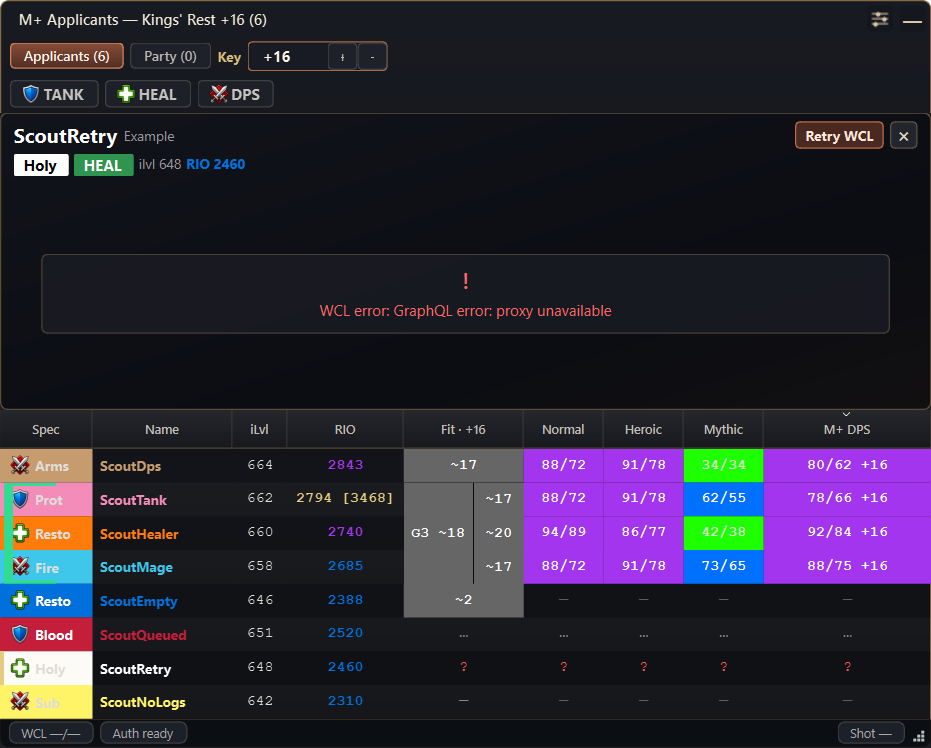
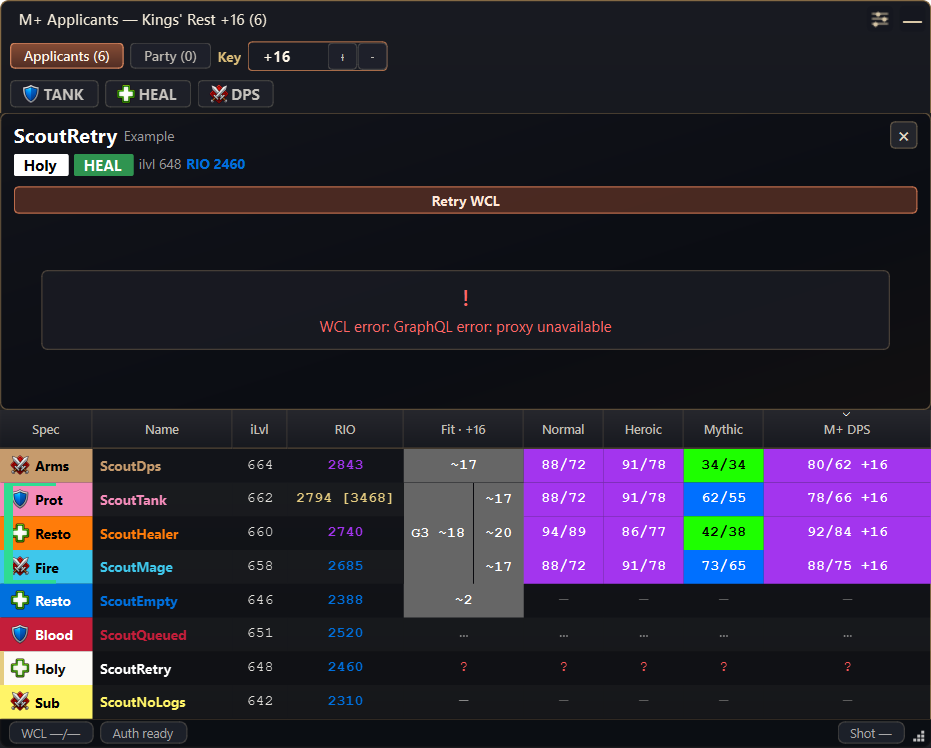
feat: boss-details action inline in status row

diff --git a/tests/test_info_panel_widget.py b/tests/test_info_panel_widget.py
@@ -576,6 +576,160 @@ def test_manual_raid_boss_detail_button_queues_fetch(qtbot, tmp_path):
         window.close()
 
 
+def _raid_idle_window(qtbot, tmp_path):
+    """Build a hovered raid window showing the idle boss-detail prompt."""
+    prefs = MetricPreferences(
+        mplus=True,
+        raid_normal=False,
+        raid_heroic=False,
+        raid_mythic=True,
+    )
+    client = WCLClient(WCLAuth("client", "secret", tmp_path), metric_preferences=prefs)
+    state = AppState()
+    state.player.full_name = "Host-Ravencrest"
+    state.listing = _raid_listing()
+    state.add_or_update(_app(name="Scout-Ravencrest", raid_boss_parses={}))
+    window = OverlayWindow(
+        state, client, CharacterCache(tmp_path), tmp_path, metric_preferences=prefs
+    )
+    qtbot.addWidget(window)
+    window._pool = None
+    window._refresh_table()
+    window._hover_id = "42"
+    window._sync_delegate_and_panel()
+    window._raid_boss_fetches_in_flight.clear()
+    window._panel._on_detail_mode_clicked("mplus")
+    window._panel._on_detail_mode_clicked("raid")
+    assert window._panel._status_label.text() == "Boss details not loaded"
+    return window
+
+
+def test_raid_idle_prompt_replaced_by_inline_load_button(qtbot, tmp_path):
+    window = _raid_idle_window(qtbot, tmp_path)
+    try:
+        panel = window._panel
+        button = panel._wcl_retry_button
+        assert button.text() == "Load boss details"
+        assert not button.isHidden()
+        assert button.parentWidget() is panel._status_row
+        assert not panel._status_row.isHidden()
+        assert panel._status_label.isHidden()
+
+        window._pool = _QueuedPool()
+        button.click()
+
+        assert window._raid_boss_fetches_in_flight
+        assert panel._status_label.text() == "Fetching raid boss details…"
+        assert not panel._status_label.isHidden()
+        assert button.isHidden()
+        assert not panel._status_row.isHidden()
+    finally:
+        window.close()
+
+
+def test_raid_loading_and_cooldown_states_render_as_text_in_status_row(
+    qtbot, tmp_path
+):
+    window = _raid_idle_window(qtbot, tmp_path)
+    try:
+        window._pool = _QueuedPool()
+        _request_visible_raid_boss_details(window)
+        panel = window._panel
+        assert panel._status_label.text() == "Fetching raid boss details…"
+        assert not panel._status_label.isHidden()
+        assert panel._wcl_retry_button.isHidden()
+        assert not panel._status_row.isHidden()
+
+        failed = next(iter(window._raid_boss_fetches_in_flight.values()))
+        window._on_raid_boss_fetch_done(
+            failed, {}, "network", overlay_mod.WCL_ERROR_NETWORK
+        )
+        assert panel._status_label.text() == "Raid boss details on cooldown…"
+        assert not panel._status_label.isHidden()
+        assert panel._wcl_retry_button.isHidden()
+        assert not panel._status_row.isHidden()
+    finally:
+        window.close()
+
+
+def test_raid_unavailable_error_keeps_text_with_inline_retry(qtbot, tmp_path):
+    window = _raid_idle_window(qtbot, tmp_path)
+    try:
+        window._pool = _QueuedPool()
+        _request_visible_raid_boss_details(window)
+        failed = next(iter(window._raid_boss_fetches_in_flight.values()))
+        window._on_raid_boss_fetch_done(
+            failed,
+            {},
+            "GraphQL error: Encounter not found",
+            overlay_mod.WCL_ERROR_GRAPHQL,
+        )
+        panel = window._panel
+        button = panel._wcl_retry_button
+        assert panel._status_label.text() == "Raid boss details unavailable"
+        assert not panel._status_label.isHidden()
+        assert button.text() == "Retry WCL"
+        assert not button.isHidden()
+        assert button.parentWidget() is panel._status_row
+        assert not panel._status_row.isHidden()
+
+        button.click()
+
+        assert window._raid_boss_fetches_in_flight
+        assert panel._status_label.text() == "Fetching raid boss details…"
+    finally:
+        window.close()
+
+
+def test_raid_auth_failure_hides_inline_action_but_keeps_text(qtbot, tmp_path):
+    window = _raid_idle_window(qtbot, tmp_path)
+    try:
+        window._pool = _QueuedPool()
+        _request_visible_raid_boss_details(window)
+        failed = next(iter(window._raid_boss_fetches_in_flight.values()))
+        window._on_raid_boss_fetch_done(
+            failed, {}, "Authentication failed", overlay_mod.WCL_ERROR_AUTH
+        )
+        panel = window._panel
+        assert panel._status_label.text() == "Raid boss details unavailable"
+        assert not panel._status_label.isHidden()
+        assert panel._wcl_retry_button.isHidden()
+        assert not panel._status_row.isHidden()
+    finally:
+        window.close()
+
+
+def test_inline_load_button_keeps_accessibility_and_header_balance(
+    qtbot, tmp_path
+):
+    window = _raid_idle_window(qtbot, tmp_path)
+    try:
+        window.show()
+        panel = window._panel
+        button = panel._wcl_retry_button
+        assert button.focusPolicy() == Qt.FocusPolicy.TabFocus
+        assert button.accessibleName() == "Load boss details for Scout-Ravencrest"
+        assert button.accessibleDescription() == button.toolTip()
+        assert "boss-by-boss" in button.toolTip()
+        assert button in window._accessibility_tab_controls()
+
+        window._pool = _QueuedPool()
+        button.setFocus()
+        qtbot.keyClick(button, Qt.Key.Key_Return)
+        assert window._raid_boss_fetches_in_flight
+
+        header = panel._unpin_button.parentWidget()
+        layout = header.layout()
+        assert layout.count() == 4
+        assert layout.itemAt(0).widget() is panel._name_label
+        assert layout.itemAt(1).widget() is panel._realm_label
+        assert layout.itemAt(2).widget() is None
+        assert layout.itemAt(3).widget() is panel._unpin_button
+        assert button.parentWidget() is panel._status_row
+    finally:
+        window.close()
+
+
 @pytest.mark.parametrize("pinned", [False, True])
 def test_narrow_raid_header_keeps_manual_action_readable(
     qtbot, tmp_path, pinned, monkeypatch

diff --git a/src/applicant_scout/overlay.py b/src/applicant_scout/overlay.py
@@ -2234,13 +2234,15 @@ class ApplicantInfoPanel(QFrame):
         header_layout.addWidget(self._name_label)
         header_layout.addWidget(self._realm_label)
         header_layout.addStretch(1)
+        # The WCL/boss-detail action button is created here but lives in the
+        # inline status row below, where the status text is, not in the
+        # far-right header slot (header keeps name/realm/stretch/unpin only).
         self._wcl_retry_button = _KeyboardButton("Retry WCL")
         self._wcl_retry_button.setObjectName("infoWclRetryButton")
         self._wcl_retry_button.setFixedHeight(22)
         self._wcl_retry_button.setFocusPolicy(Qt.FocusPolicy.TabFocus)
         self._wcl_retry_button.setToolTip("Retry Warcraft Logs for this row")
         self._wcl_retry_button.clicked.connect(self.wclRetryRequested.emit)
-        header_layout.addWidget(self._wcl_retry_button)
         self._unpin_button = _KeyboardButton("×")
         self._unpin_button.setObjectName("infoUnpinButton")
         self._unpin_button.setFixedSize(22, 22)
@@ -2353,10 +2355,21 @@ class ApplicantInfoPanel(QFrame):
         self._detail_legend.setStyleSheet("color: #b8b8c8; font-size: 10px;")
         outer.addWidget(self._detail_legend)
 
+        self._status_row = QWidget(self)
+        self._status_row.setObjectName("infoPanelStatusRow")
+        status_row_layout = QHBoxLayout(self._status_row)
+        status_row_layout.setContentsMargins(0, 0, 0, 0)
+        status_row_layout.setSpacing(6)
+        # Inline action slot: the button sits where the status text is, so
+        # the eye meets the action. The raid idle prompt hides the passive
+        # label (its text is still set); error/loading texts stay visible
+        # next to the button in this same row.
+        status_row_layout.addWidget(self._wcl_retry_button)
         self._status_label = QLabel("")
         self._status_label.setObjectName("infoPanelStatus")
         self._status_label.setWordWrap(True)
-        outer.addWidget(self._status_label)
+        status_row_layout.addWidget(self._status_label, stretch=1)
+        outer.addWidget(self._status_row)
 
         self._state_stage = QWidget(self)
         state_stage_layout = QVBoxLayout(self._state_stage)
@@ -2556,6 +2569,7 @@ class ApplicantInfoPanel(QFrame):
         self._status_label.setToolTip("")
         self._status_label.setAccessibleDescription("")
         self._status_label.setVisible(False)
+        self._status_row.setVisible(False)
         self._state_text_label.setText("")
         self._state_text_label.setToolTip("")
         self._state_icon_label.setText("")
@@ -2576,6 +2590,12 @@ class ApplicantInfoPanel(QFrame):
         if not visible and widget.isVisible() and _widget_has_focus(widget):
             self.focusFallbackRequested.emit()
         widget.setVisible(visible)
+
+    def _sync_status_row(self) -> None:
+        """Collapse the inline status row when neither text nor action shows."""
+        self._status_row.setVisible(
+            not self._status_label.isHidden() or not self._wcl_retry_button.isHidden()
+        )
 
     def _set_identity(self, applicant: Applicant) -> None:
         raw_name, _, raw_realm = applicant.name.partition("-")
@@ -2789,6 +2809,10 @@ class ApplicantInfoPanel(QFrame):
         self._status_label.setToolTip("")
         self._status_label.setAccessibleDescription("")
         self._status_label.setVisible(False)
+        # NOTE: the status row stays visible here on purpose. Every path
+        # below either calls _show_status (which syncs the row) or hides the
+        # button first via _set_action_visible (which must still see the
+        # button on-screen to move focus away from it).
         self._state_stage.setVisible(False)
         self._bottom_filler.setVisible(True)
         if status in ("loading", "pending"):
@@ -2882,6 +2906,7 @@ class ApplicantInfoPanel(QFrame):
             )
         else:
             self._set_action_visible(self._wcl_retry_button, False)
+            self._status_row.setVisible(False)
 
     def _show_status(
         self,
@@ -2905,7 +2930,15 @@ class ApplicantInfoPanel(QFrame):
         )
         color = "#ff6666" if error else "#8d8d98"
         self._status_label.setStyleSheet(f"color: {color};")
-        self._status_label.setVisible(bool(display_text and not centered))
+        # Raid idle prompt ("Boss details not loaded") is replaced by the
+        # inline action button itself; its text stays set. Every other state
+        # keeps the passive label so loading/error text still renders here.
+        inline_action = bool(
+            text and retry_available and not error and action_text == "Load boss details"
+        )
+        self._status_label.setVisible(
+            bool(display_text and not centered) and not inline_action
+        )
         state_text = text
         if len(state_text) > 120:
             state_text = state_text[:119].rstrip() + "…"
@@ -2939,6 +2972,7 @@ class ApplicantInfoPanel(QFrame):
             self._wcl_retry_button.toolTip()
         )
         self._set_action_visible(self._wcl_retry_button, bool(text and retry_available))
+        self._sync_status_row()
 
     def _clear_metrics_and_dungeons(self) -> None:
         for label in self._metric_labels.values():
